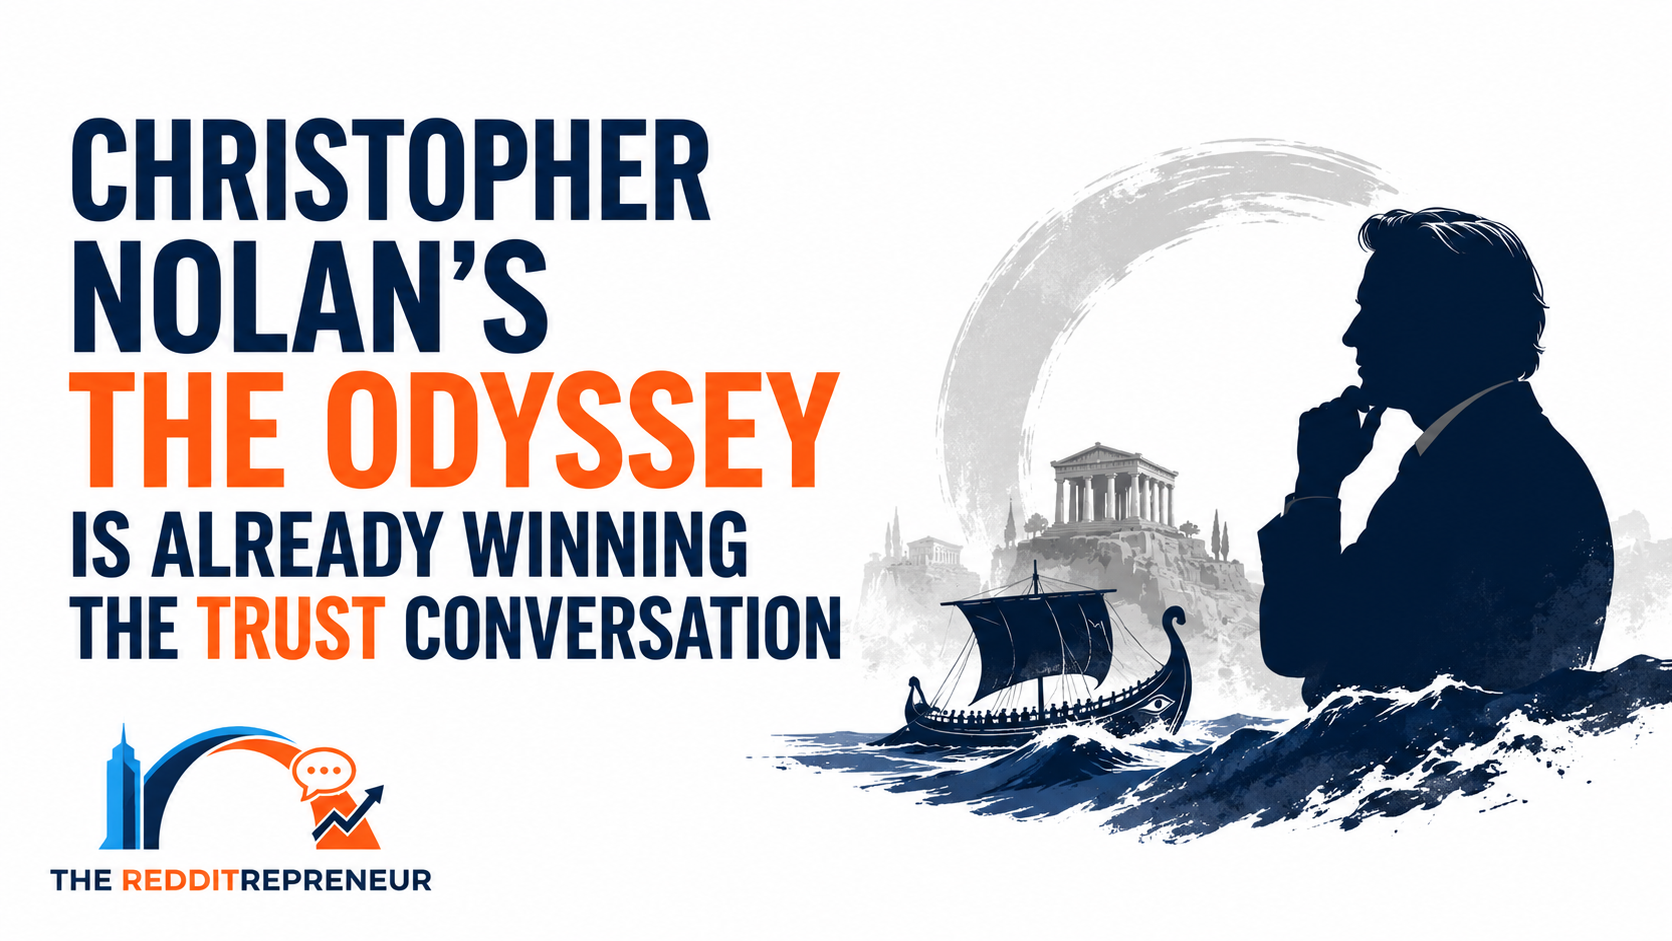
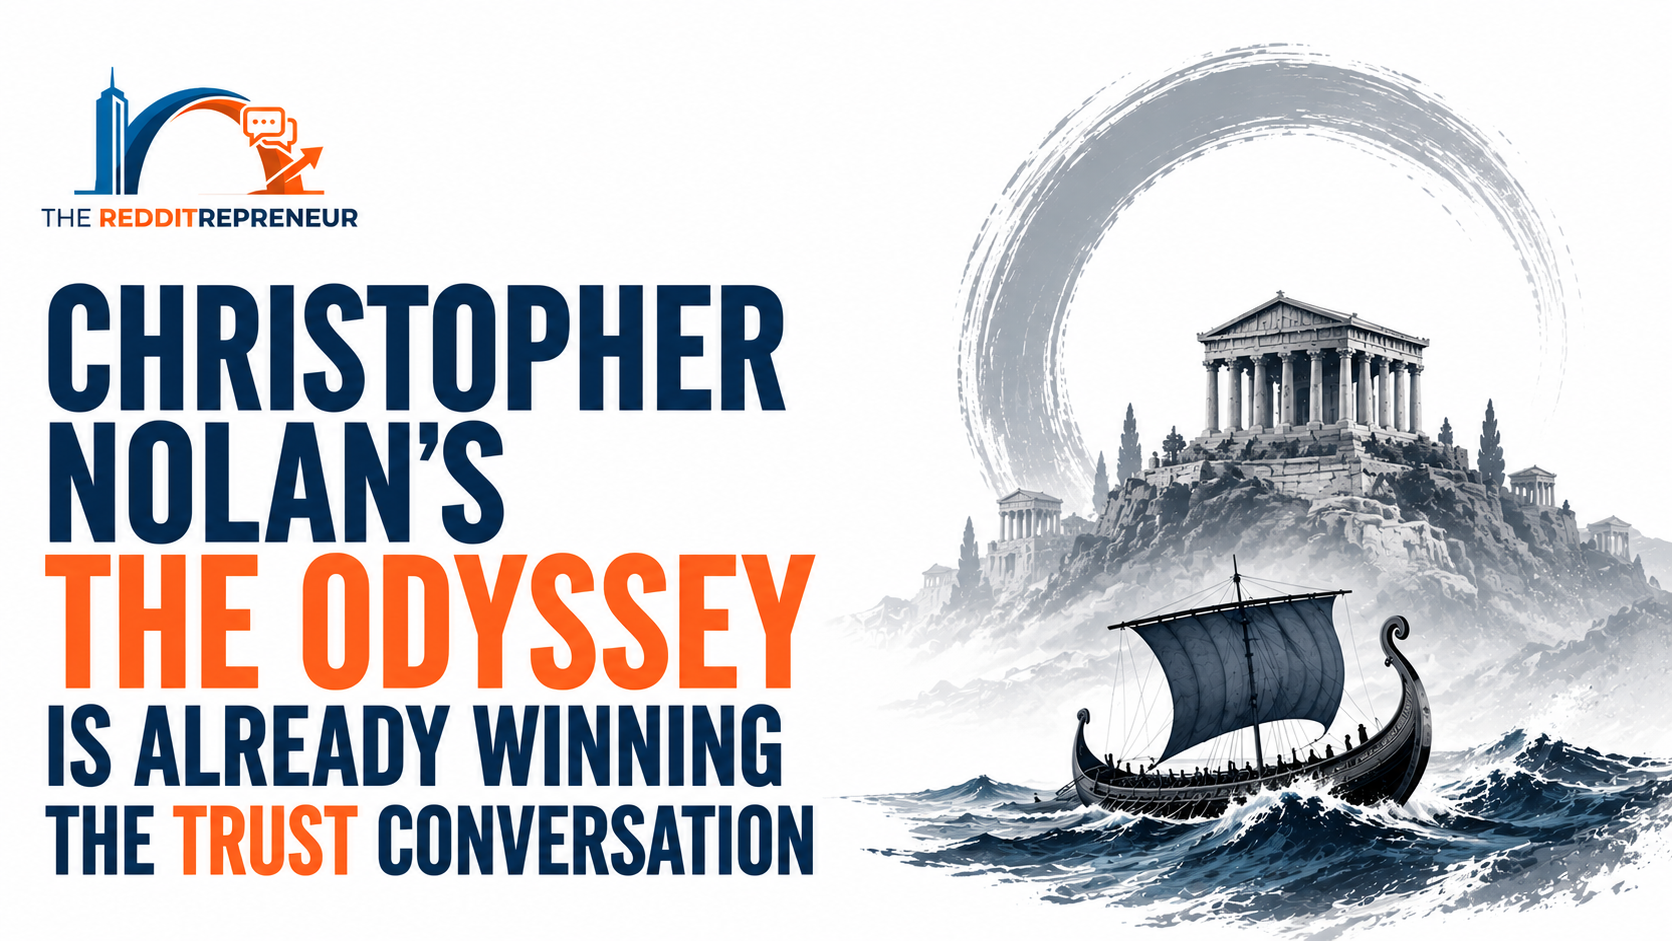
Replace Odyssey article cover image

diff --git a/tests/christopher-nolan-odyssey-trust-conversation.test.ts b/tests/christopher-nolan-odyssey-trust-conversation.test.ts
@@ -51,7 +51,7 @@ describe("Christopher Nolan's The Odyssey trust article",()=>{
   it('ships the supplied 16 by 9 cover image',()=>{
     const image=path.resolve('public/christopher-nolan-the-odyssey-trust-conversation.png')
     expect(fs.existsSync(image)).toBe(true)
-    expect(fs.statSync(image).size).toBe(1313580)
+    expect(fs.statSync(image).size).toBe(1600617)
     expect(christopherNolanOdysseyArticle.imageWidth).toBe(1672)
     expect(christopherNolanOdysseyArticle.imageHeight).toBe(941)
   })
